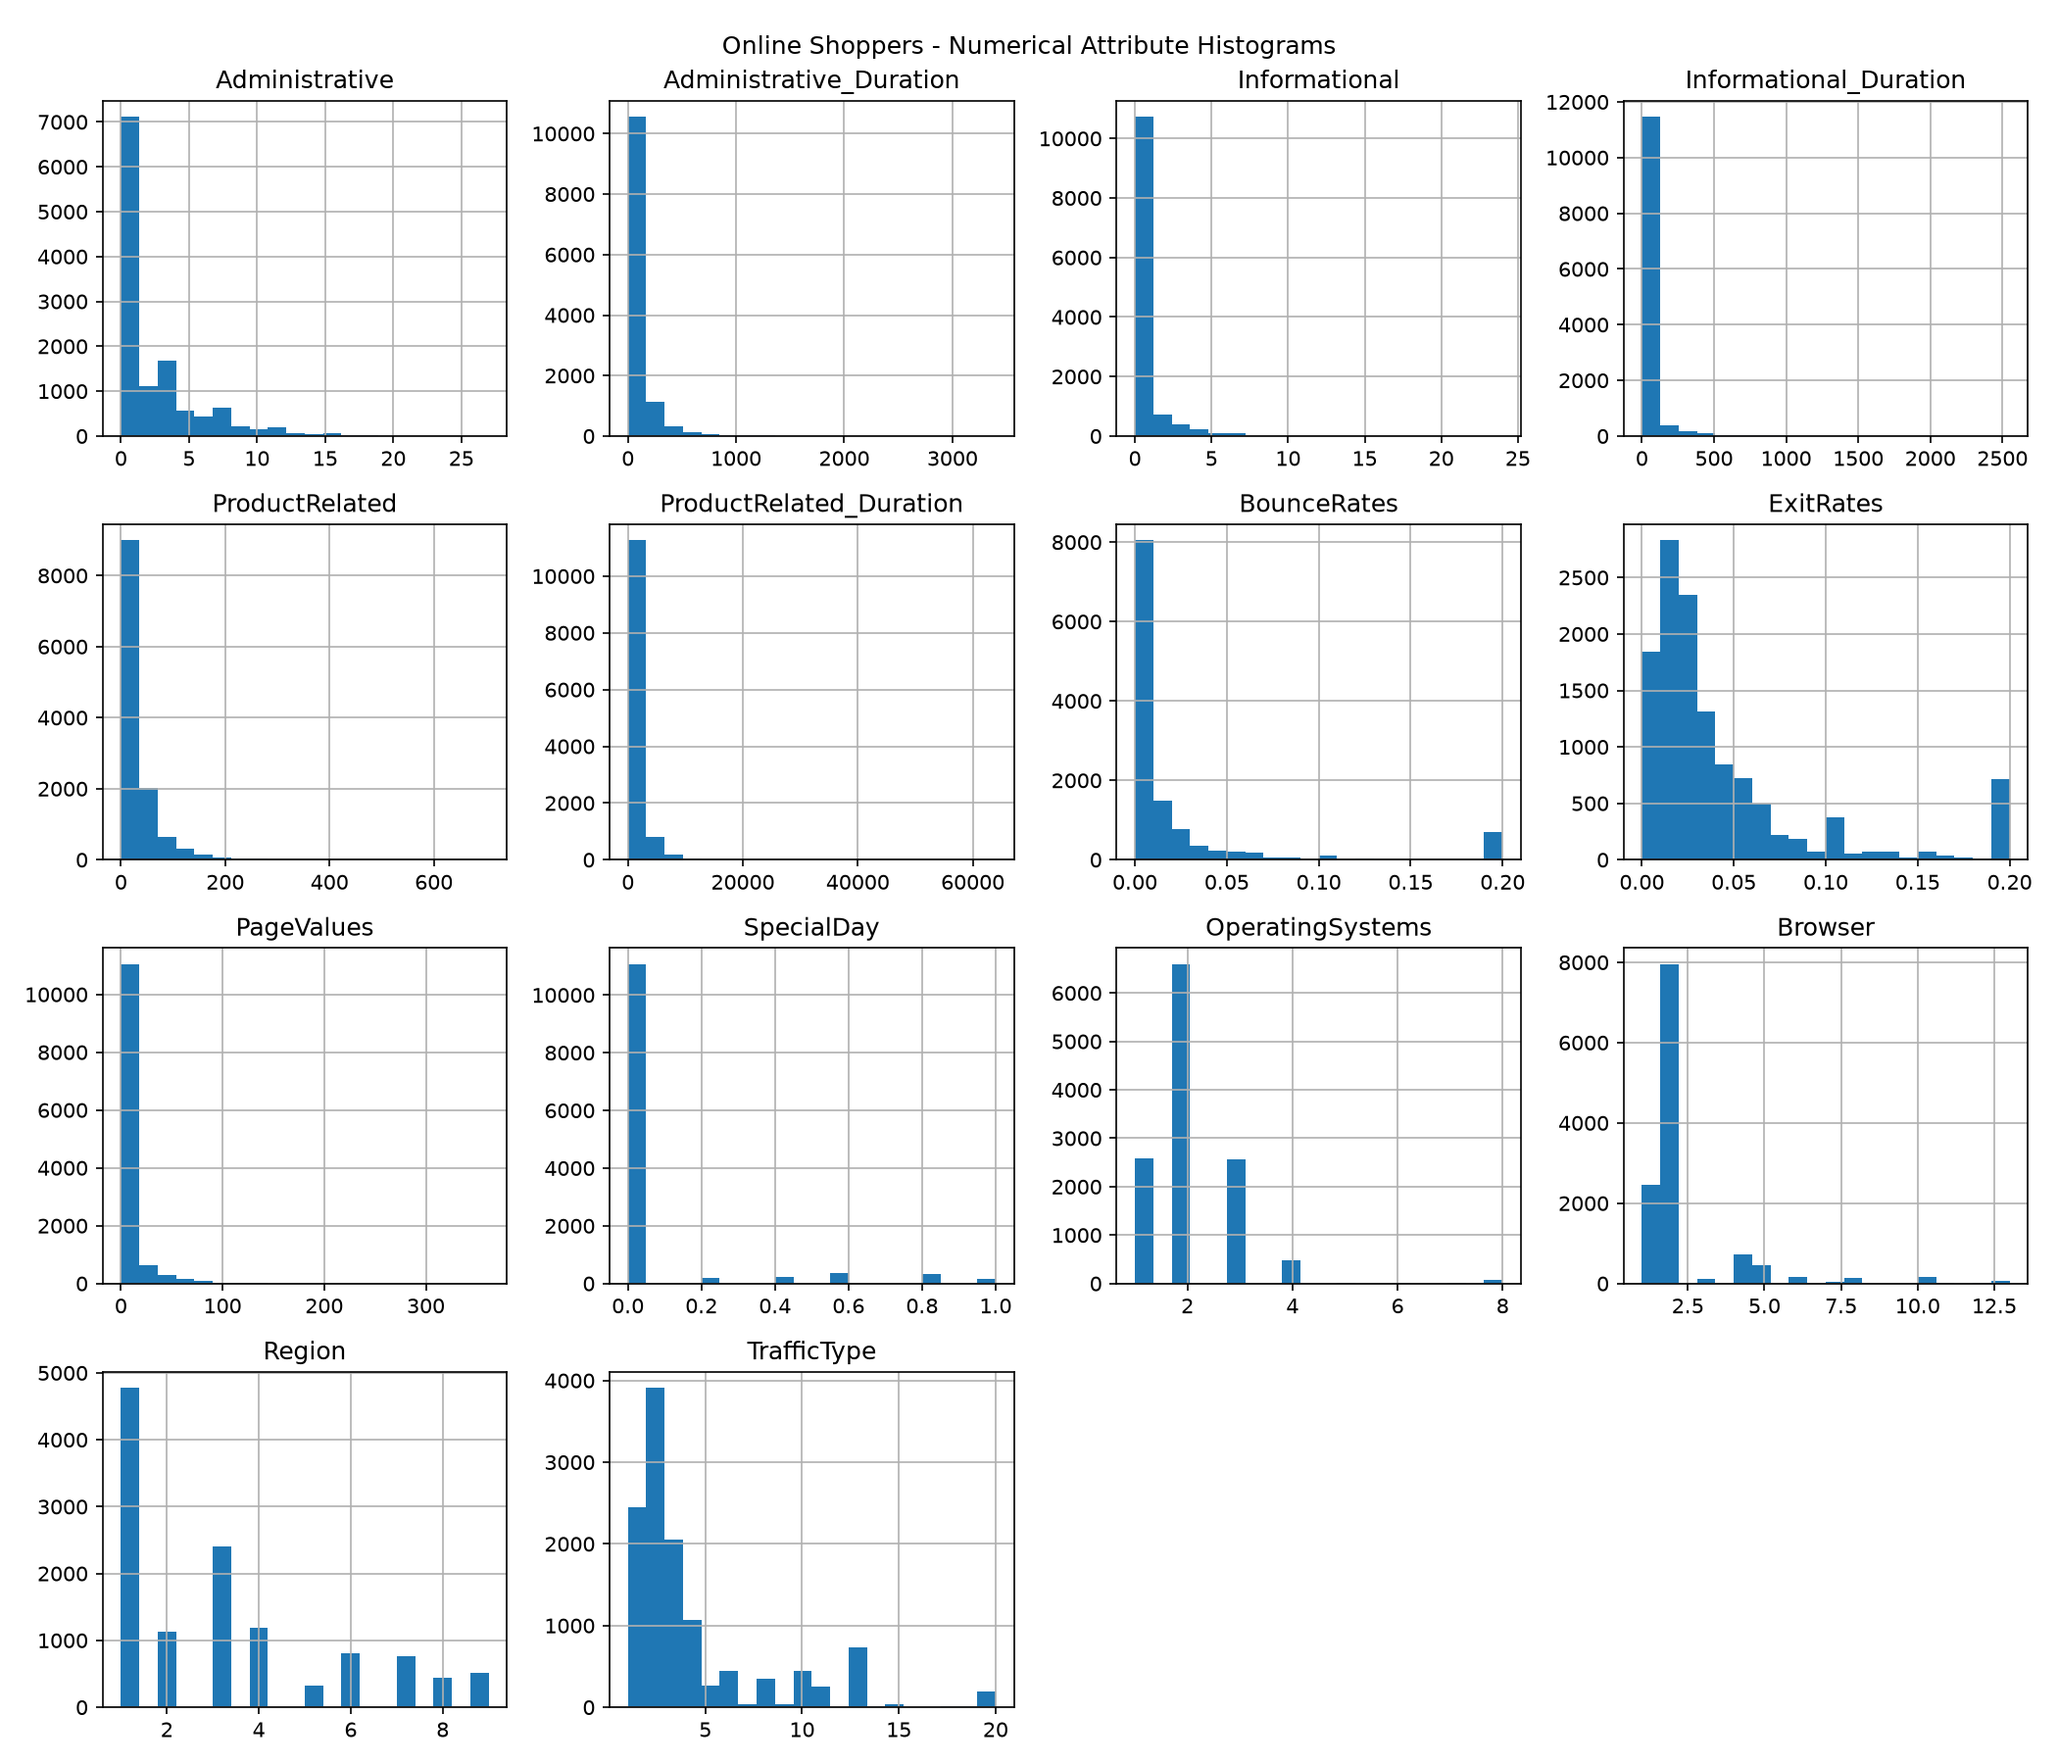
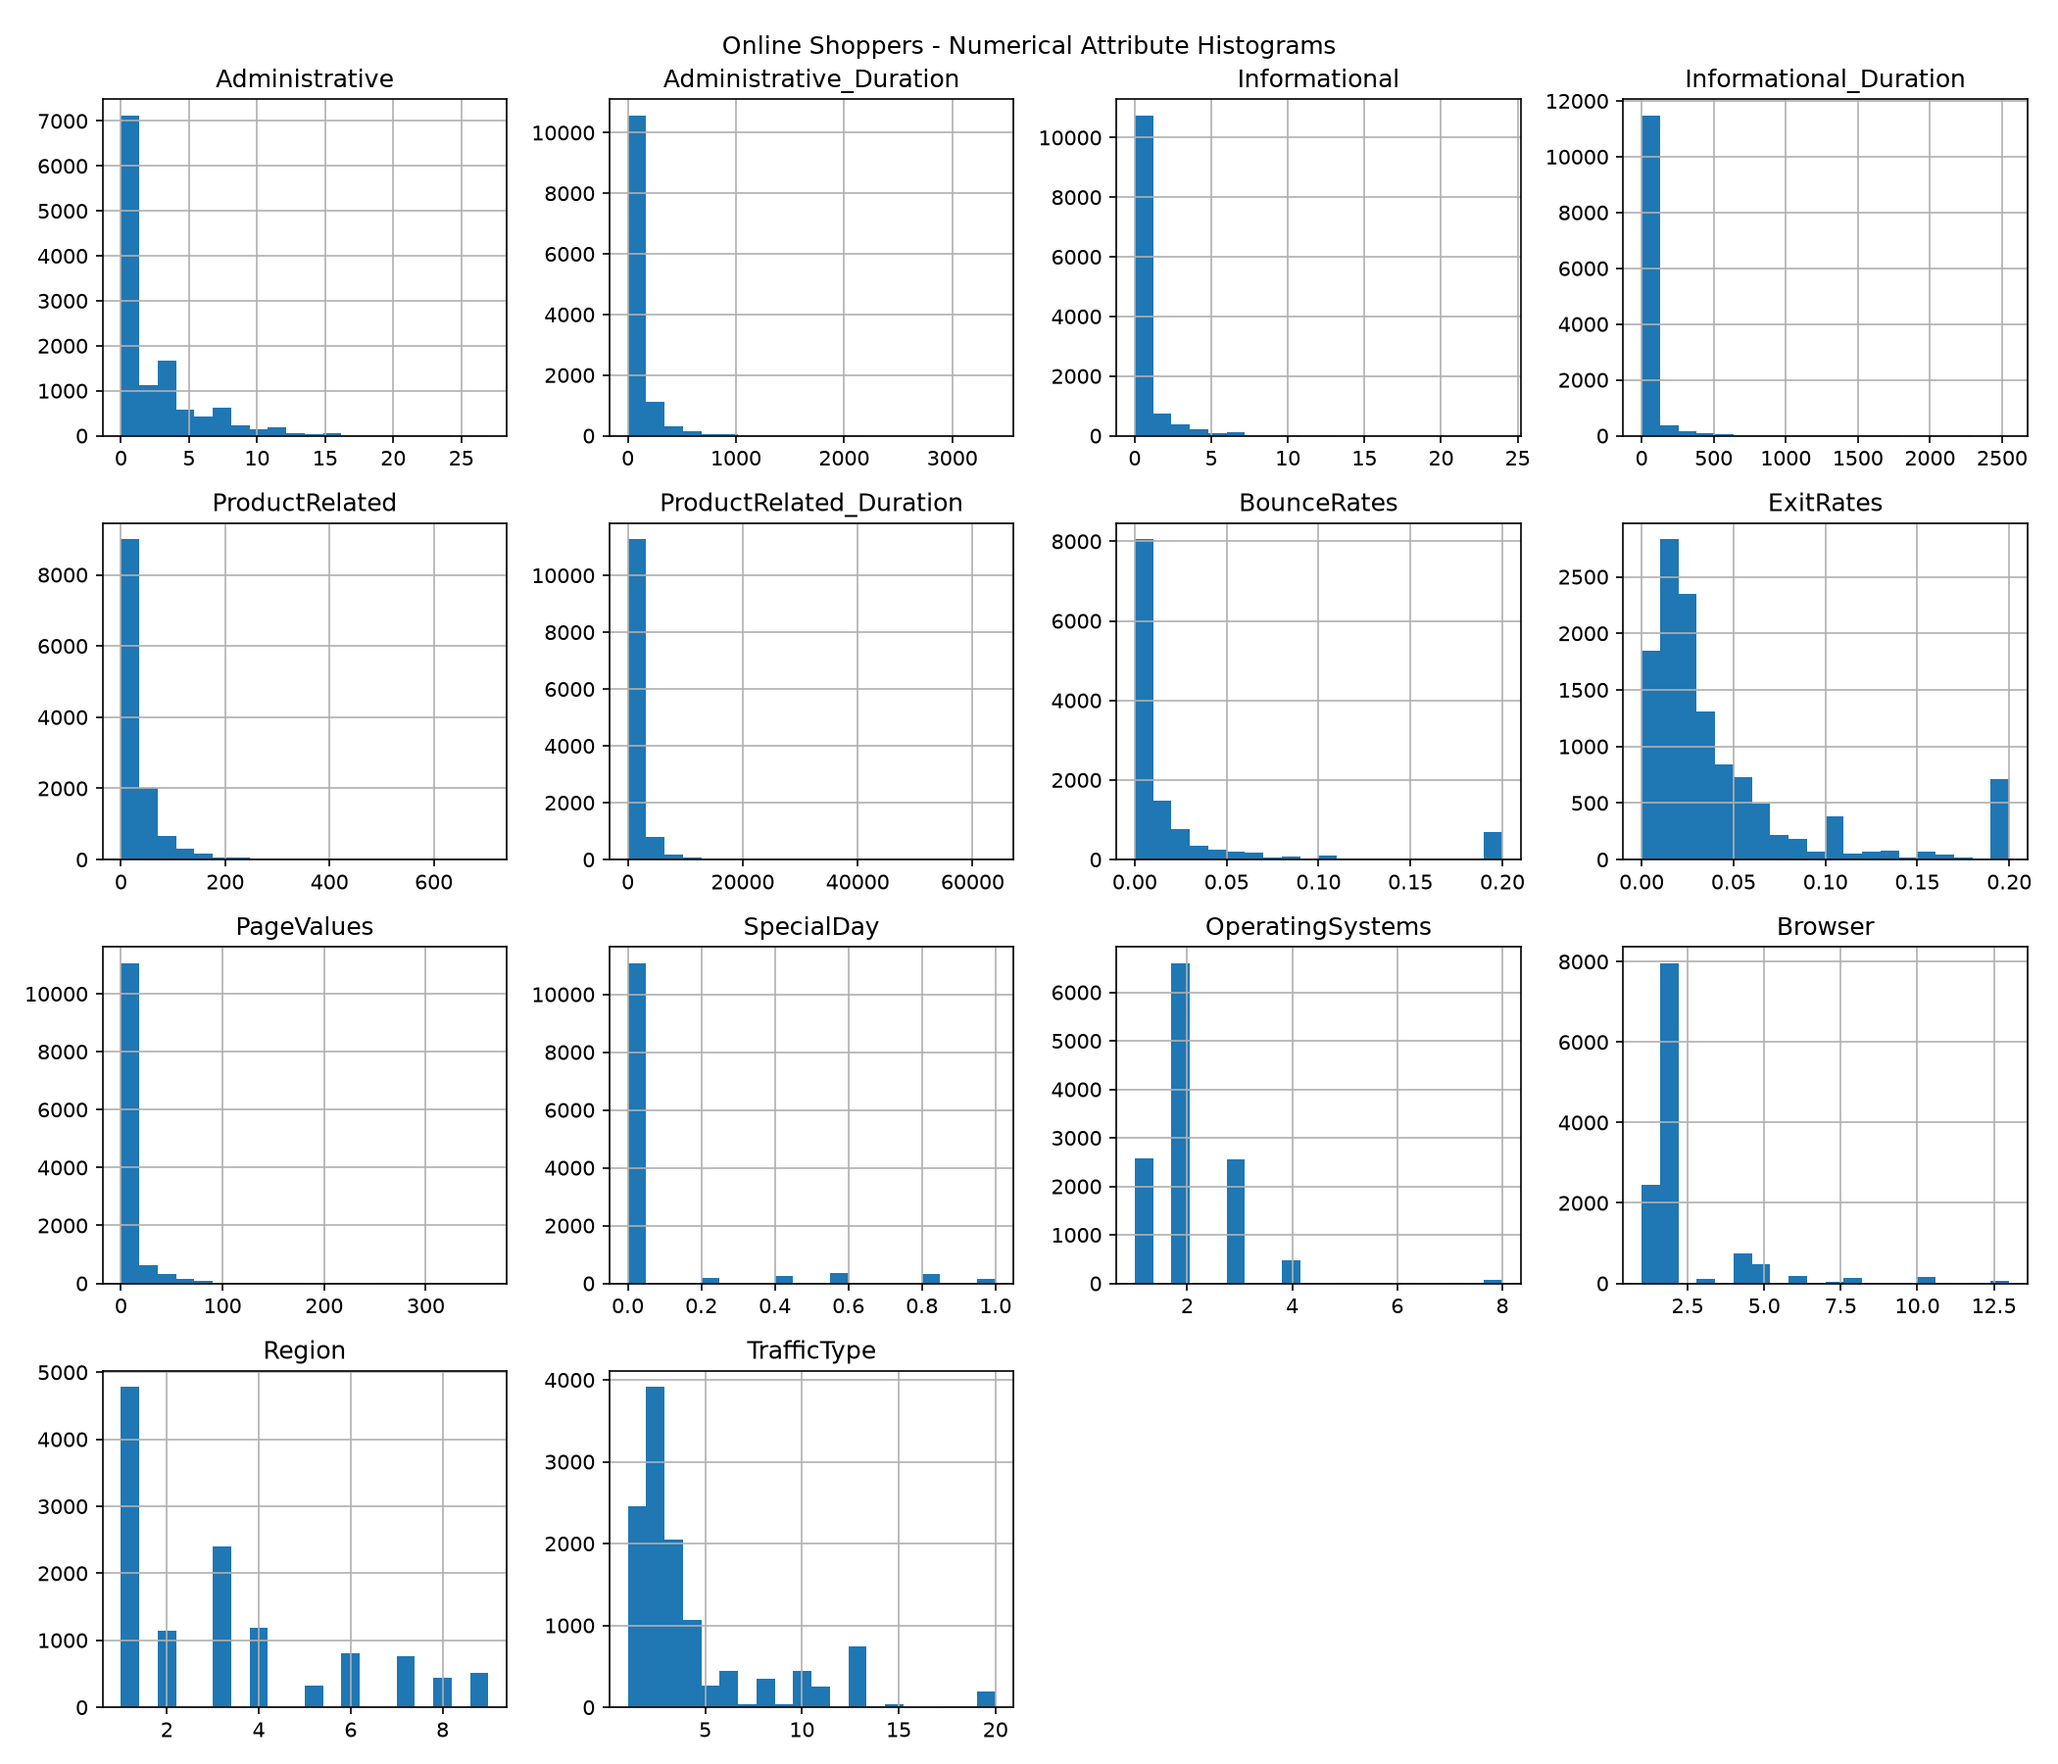
scatter plot and correlations

diff --git a/online_shoppers_analysis.py b/online_shoppers_analysis.py
@@ -7,6 +7,16 @@ Exercise 8
 
 import pandas as pd
 import matplotlib.pyplot as plt
+from matplotlib.lines import Line2D
+from pandas.plotting import scatter_matrix
+from pathlib import Path
+
+
+PROJECT_FOLDER = Path(__file__).resolve().parent
+PURCHASE_STYLES = [
+    (False, "#0072B2", "No purchase (Revenue=False)"),
+    (True, "#D55E00", "Purchase (Revenue=True)"),
+]
 
 
 # Function: load_data
@@ -57,28 +67,116 @@ def explore_data(data):
 # Function: visualize_data
 # Purpose: Create histograms for the numerical dataset columns.
 # Parameters: data - the dataset as a DataFrame
-# Side effects: Displays histograms
+# Side effects: Creates and saves histograms
 # Returns: None
 def visualize_data(data):
     data.hist(figsize=(14, 12), bins=20)
     plt.suptitle("Online Shoppers - Numerical Attribute Histograms")
     plt.tight_layout()
-    plt.savefig("online_shoppers_histograms.png", dpi=150)
-    plt.show()
+    plt.savefig(PROJECT_FOLDER / "online_shoppers_histograms.png", dpi=150)
+
+
+# Function: scatter_plot
+# Purpose: Compare product browsing behavior for buyers and non-buyers.
+# Parameters: data - the dataset as a DataFrame
+# Side effects: Creates and saves a scatter plot
+# Returns: None
+def scatter_plot(data):
+    figure, axis = plt.subplots(figsize=(10, 7))
+    for purchased, color, label in PURCHASE_STYLES:
+        group = data[data["Revenue"] == purchased]
+        axis.scatter(group["ProductRelated"], group["ProductRelated_Duration"],
+                     color=color, label=label, alpha=0.35, s=15)
+    axis.set_title("Product Browsing Behavior by Purchase Outcome")
+    axis.set_xlabel("Number of Product-Related Pages Visited")
+    axis.set_ylabel("Total Time on Product-Related Pages")
+    axis.legend(title="Purchase outcome", markerscale=2)
+    figure.tight_layout()
+    figure.savefig(PROJECT_FOLDER / "online_shoppers_scatter.png", dpi=150)
+
+
+# Function: scatter_all_numeric
+# Purpose: Compare every pair of numeric columns, colored by purchase outcome.
+# Parameters: data - the dataset as a DataFrame
+# Side effects: Creates and saves a scatter plot matrix
+# Returns: None
+def scatter_all_numeric(data):
+    # Draw buyers last so the less common purchase class remains visible.
+    plot_data = data.sort_values("Revenue", kind="stable")
+    numeric_data = plot_data.select_dtypes(include="number")
+    color_map = {purchased: color for purchased, color, label in PURCHASE_STYLES}
+    colors = plot_data["Revenue"].map(color_map).to_numpy()
+    print("\nSCATTER MATRIX - ALL NUMERIC COLUMNS")
+    print(numeric_data.columns.to_list())
+    print("Rows plotted:", len(numeric_data))
+
+    axes = scatter_matrix(numeric_data, figsize=(28, 28), alpha=0.3,
+                          c=colors, s=4, diagonal="hist",
+                          hist_kwds={"bins": 20, "color": "#8c8c8c"})
+    for row in axes:
+        for axis in row:
+            axis.tick_params(axis="both", labelsize=6)
+            axis.set_xlabel(axis.get_xlabel(), fontsize=8, rotation=90)
+            axis.set_ylabel(axis.get_ylabel(), fontsize=8)
+    figure = axes[0, 0].figure
+    figure.suptitle("Online Shoppers - All Numeric Columns by Purchase Outcome",
+                   fontsize=18, y=0.997)
+    legend_handles = [
+        Line2D([], [], marker="o", linestyle="", color=color, label=label)
+        for purchased, color, label in PURCHASE_STYLES
+    ]
+    figure.legend(handles=legend_handles, loc="upper center", ncol=2,
+                  fontsize=12, bbox_to_anchor=(0.5, 0.985))
+    figure.text(0.5, 0.966, "Diagonal: histograms of all visits combined",
+                ha="center", fontsize=10)
+    figure.tight_layout(rect=(0, 0, 1, 0.96))
+    figure.savefig(PROJECT_FOLDER / "online_shoppers_scatter_matrix.png", dpi=150)
+
+
+# Function: correlations
+# Purpose: Calculate Pearson linear correlations for numeric attributes.
+# Parameters: data - the dataset as a DataFrame
+# Side effects: Prints the correlation matrix and saves it as a CSV
+# Returns: None
+def correlations(data):
+    # Match the example: include every numeric column and Boolean column.
+    # OS, browser, region, and traffic codes are nominal categories; their
+    # coefficients depend on arbitrary numbering and need careful interpretation.
+    corr_matrix = data.corr(numeric_only=True)
+
+    print("\nLINEAR CORRELATIONS (corr())")
+    print(corr_matrix.round(3).to_string())
+    print("Note: OperatingSystems, Browser, Region, and TrafficType are category codes.")
+
+    print("\nCORRELATIONS WITH PURCHASE OUTCOME (Revenue)")
+    print(corr_matrix["Revenue"].drop("Revenue")
+          .sort_values(ascending=False).round(3).to_string())
+
+    corr_matrix.to_csv(PROJECT_FOLDER / "online_shoppers_correlations.csv")
 
 
 # Function: main
-# Purpose: Load the CSV and run the exploration and visualization functions.
+# Purpose: Load the CSV and run all three exploratory analysis tasks.
 # Parameters: None
 # Side effects: Prints dataset information and displays histograms
 # Returns: None
 def main():
-    filename = "online_shoppers_intention.csv"
+    filename = PROJECT_FOLDER / "online_shoppers_intention.csv"
+    print("\nRUNNING SCRIPT:", Path(__file__).resolve())
+    print("DATA SOURCE:", filename)
+    print("SCATTER COLORS: blue = no purchase; orange = purchase")
     data = load_data(filename)
 
     if data is not None:
         explore_data(data)
+        correlations(data)
         visualize_data(data)
+        scatter_plot(data)
+        scatter_all_numeric(data)
+        print("\nAll three tasks completed. Charts and correlations saved in:")
+        print(PROJECT_FOLDER)
+        print("Close the plot windows to finish the program.")
+        plt.show()
 
 
 if __name__ == "__main__":
